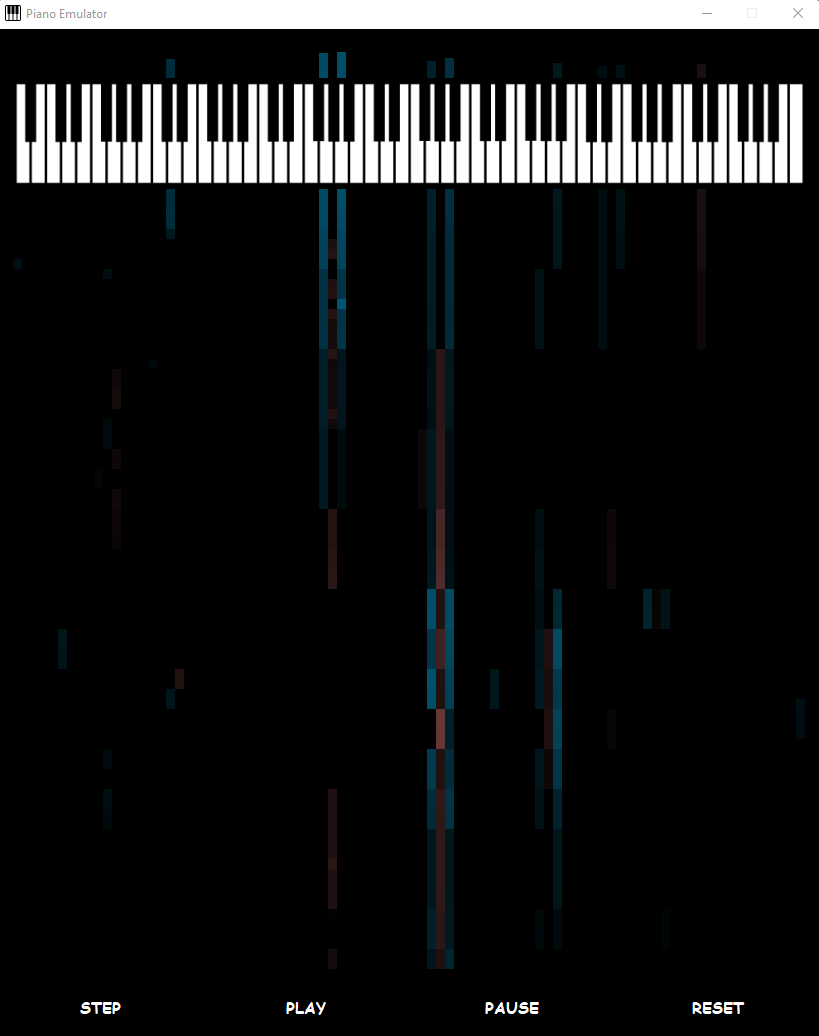
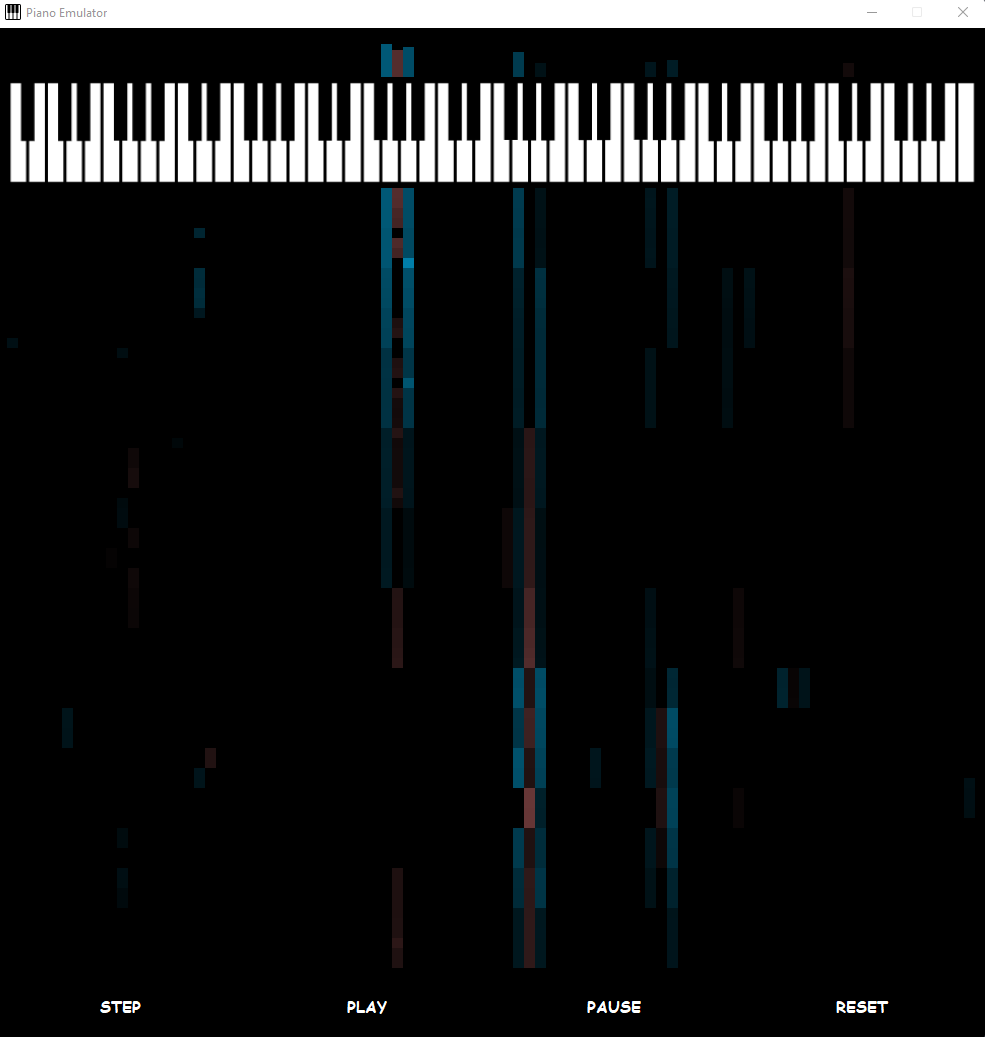
Improvements in the aesthetics of the app

diff --git a/src/Environment.java b/src/Environment.java
@@ -77,19 +77,19 @@ public class Environment {
     this.reset();
     this.createNotes();
     this.createIntensityBar();
-    this.graphicsHandler.buttonInit(stepButton, "STEP", 0, 945, 206, 66);
-    this.graphicsHandler.buttonInit(playButton, "PLAY", 206, 945, 206, 66);
-    this.graphicsHandler.buttonInit(pauseButton, "PAUSE", 412, 945, 206, 66);
-    this.graphicsHandler.buttonInit(resetButton, "RESET", 618, 945, 206, 66);
+    this.graphicsHandler.buttonInit(stepButton, "STEP", 0, 945, 247, 66);
+    this.graphicsHandler.buttonInit(playButton, "PLAY", 247, 945, 247, 66);
+    this.graphicsHandler.buttonInit(pauseButton, "PAUSE", 494, 945, 247, 66);
+    this.graphicsHandler.buttonInit(resetButton, "RESET", 741, 945, 248, 66);
     this.graphicsHandler.mainPanelInit(this.mainPanel);
-    this.graphicsHandler.frameInit("Piano Emulator", 840, 1050);
+    this.graphicsHandler.frameInit("Piano Emulator", 1005, 1050);
   }
 
   /**
    * @brief Method that creates a new note and shows it in the screen
    */
   private void createNotes() {
-    int x = 16;
+    int x = 10;
     int y = 930;
     this.notes = new Note[this.rows][this.columns];
     for (int row = 0; row < this.rows; ++row) {
@@ -99,7 +99,7 @@ public class Environment {
         this.graphicsHandler.addNote(note, x, y, this.noteWidth, this.noteHeight);
         x += this.noteWidth;
       }
-      x = 16;
+      x = 10;
       y -= this.noteHeight;
     }
   }
@@ -109,7 +109,7 @@ public class Environment {
    *        shows it in the screen
    */
   private void createIntensityBar() {
-    int x = 16;
+    int x = 10;
     int y = 39;
     this.intensityBar = new Note[this.columns];
     for (int column = 0; column < this.columns; ++column){

diff --git a/src/GraphicsHandler.java b/src/GraphicsHandler.java
@@ -65,12 +65,13 @@ public class GraphicsHandler extends JFrame {
   public void mainPanelInit(JPanel panel) {
     this.frame.add(panel);
     panel.add(new JLabel(" "));
-    JLabel image = new JLabel();
-    panel.add(image);
     panel.setVisible(true);
     panel.setBackground(Color.black);
-    ImageIcon pianoImage = new ImageIcon(getClass().getResource("images/piano.png"));
-    image.setIcon(new ImageIcon(pianoImage.getImage().getScaledInstance(828, 155, Image.SCALE_SMOOTH)));
+    JLabel imageLabel = new JLabel();
+    panel.add(imageLabel);
+    imageLabel.setBounds(-14, 138, 1015, 135);
+    ImageIcon image = new ImageIcon(getClass().getResource("images/piano.png"));
+    imageLabel.setIcon(new ImageIcon(image.getImage().getScaledInstance(1015, 155, Image.SCALE_SMOOTH)));
   }
 
   /**
@@ -154,7 +155,7 @@ public class GraphicsHandler extends JFrame {
    * @param width Note's width
    */
   public void handleIntensity(Note regularNote, Note intensityBarNote, int width) {
-    int newHeight = 40 * regularNote.getIntensity() / 255;
+    int newHeight = 50 * regularNote.getIntensity() / 255;
     intensityBarNote.setColor(regularNote.getColor());
     intensityBarNote.setIntensity(regularNote.getIntensity());
     intensityBarNote.getPanel().setBackground(regularNote.getColor());

diff --git a/src/Main.java b/src/Main.java
@@ -4,6 +4,6 @@
 
 public class Main {
   public static void main(String[] args) {
-    new Environment(78, 88, 9, 10);
+    new Environment(78, 88, 11, 10);
   }
 }
